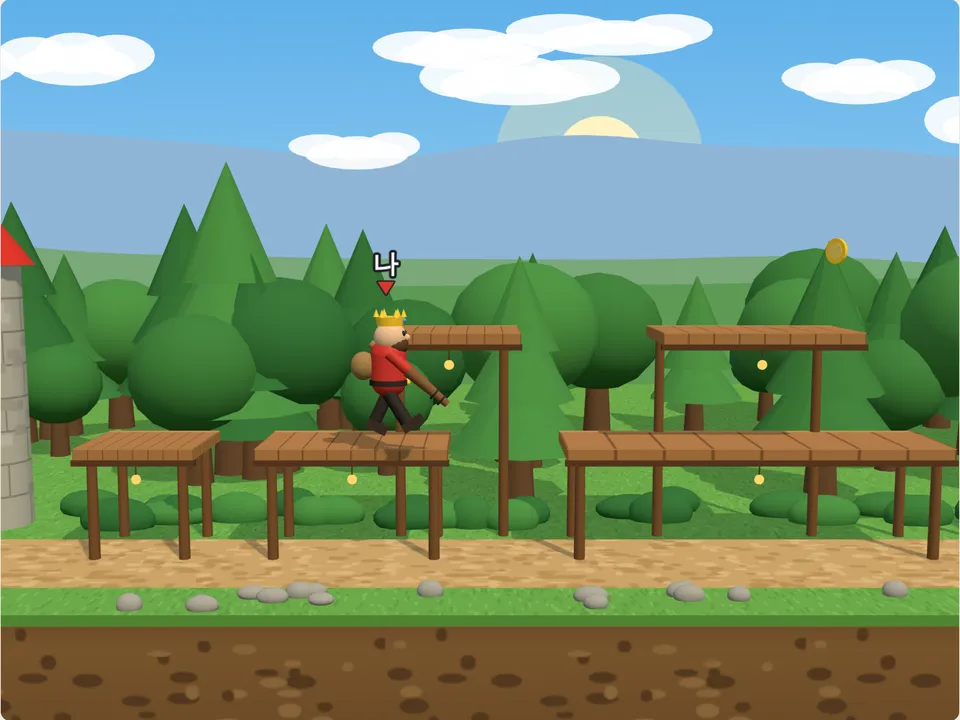
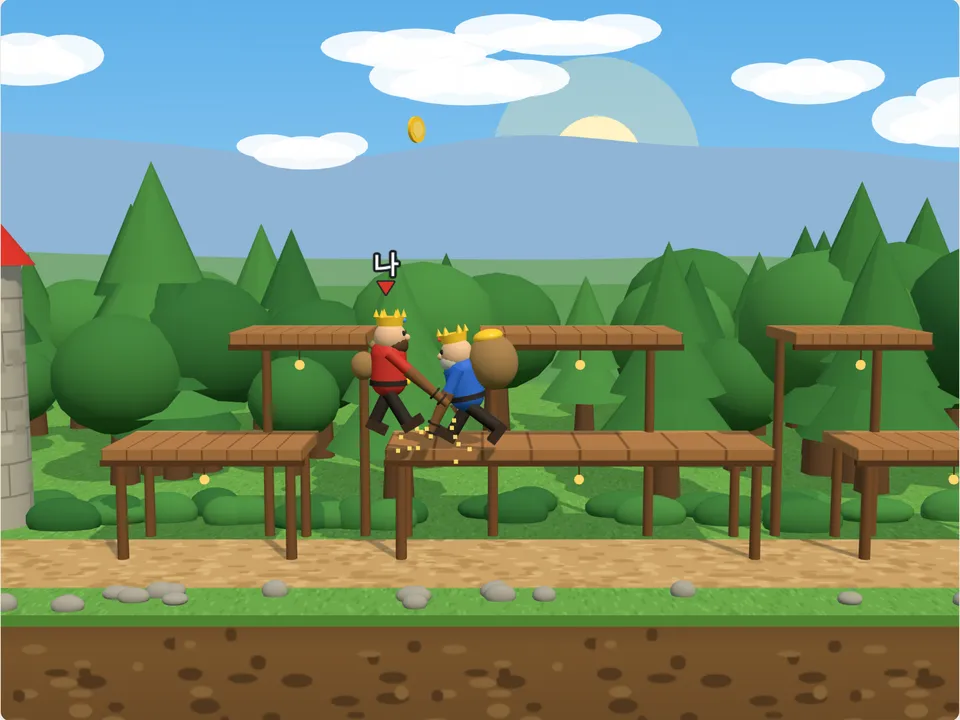
Gold raid: a 20 m valley
Claude-Session: https://claude.ai/code/session_01Uedx1uYtd54DPXXtQh77nN

diff --git a/src/core/updates.ts b/src/core/updates.ts
@@ -12,7 +12,7 @@ const at = (text: string, full = false) => ({ text, full });
 export const UPDATES: UpdateDay[] = [
   {
     date: "2026-11-25",
-    items: [at("배드민턴 와이파이 여럿이(둘이)"), at("배드민턴: 손가락을 떼지 않고 누른 채로 빠르게 밀기만 해도 칩니다"), at("낚시: 찌를 물면 격렬하게 요동치고, 릴을 계속 빠르게 돌려야(화면에 원 그리기·스페이스 연타) 끌어올립니다"), at("낚시: 바다 낚시(전갱이부터 참치까지, 더 길고 거친 싸움), 호수는 낮에서 해질녘을 지나 밤으로, 낚싯대에 돌아가는 릴"), at("숫자 코드 와이파이: 처음에 모두 함께 패를 정리하고 배열 완료(조커를 받은 사람이 티 나지 않게)"), at("낚시: 호수에 개구리·가재, 바다에 장어·청새치·상어·고래"), at("낚시: 시간 제한과 난이도 없음, 바다 낚시는 흔들리는 낚싯배 위에서"), at("낚시: 바다도 낮에서 밤으로 하늘이 바뀌고, 물고기가 덜 자주 차고 나갑니다"), at("새 게임: 주차 요원 — 손님 차를 직접 몰아 빈칸에 대고, 돌아온 손님에게 출구까지 내어 주기(3분 근무, 주차장 3종)"), at("새 게임: 금화 쟁탈전 — 두 산적 왕이 떨어지는 금화와 보물을 모아 자기 성을 먼저 채우기(수레 털기, 몽둥이, 컴퓨터 대전 · 로컬 2인)"), at("슬롯 카: 컴퓨터도 가끔 과속으로 코스 이탈"), at("낚시: 흔한 물고기는 금방 딸려 오고 큰 물고기는 오래 걸림, 큰 물고기도 요동은 몇 번뿐"), at("배드민턴: 높이 뜬 셔틀콕이 더 빠르게 올라갔다 떨어집니다"), at("탁구: 내가 친 공은 아웃되지 않고, 친 뒤 라켓을 옆으로 움직여 공을 휘게 합니다(치는 순간 저절로 걸리던 스핀 없음)"), at("배드민턴: 아웃 없음(옆줄·뒷줄 안쪽으로, 서브도 맞는 코트로)"), at("탁구: 컴퓨터가 더 빨라져 옆으로 치거나 휜 공도 받아 냅니다"), at("새 게임: 훌라 — 같은 숫자·같은 무늬 묶음을 등록하고 붙여 먼저 손을 비우기(땡큐, 7 단독 등록, 한 번에 털면 훌라 두 배)"), at("새 게임: 룰렛 — 칩을 판에 걸고 휠을 돌리면 공이 굴러 떨어진 칸으로 승부", true), at("새 게임: 슬롯머신 — 레버를 끌어 당기면 릴 3개가 돌다 멈춤, 1·3·5라인, 환급률 95.4%", true), at("금화 쟁탈전이 훨씬 느긋해지고 골짜기가 길어졌어요. 화면이 내 산적을 따라가고, 위쪽 띠 지도에서 성과 상대 위치를 볼 수 있어요. 둘이서 멀리 떨어지면 화면이 반으로 나뉘어요"), at("주차 요원: 손님이 칸 번호 하나를 말풍선으로 알려 주고, 요원을 레버로 직접 움직여 탑승·하차 버튼으로 타고 내립니다"), at("금화 쟁탈전: 휴대폰은 레버로 달리고 위로 올려 점프, 골짜기가 35m로 짧아지고, 자루가 무거울수록 느려지며, 일어나면 바로 다시 맞을 수 있어요"), at("주차 요원: 두 번째 주차장은 밤의 햄버거 가게 주차장, 세 번째는 진짜 지하 주차장 배경으로 바뀌었어요(어두우면 차가 전조등을 켜요)"), at("금화 쟁탈전: 골짜기가 25m로 짧아지고, 하늘에서 보물 상자가 떨어지지 않으며, 금화가 덜 자주 떨어져요")],
+    items: [at("배드민턴 와이파이 여럿이(둘이)"), at("배드민턴: 손가락을 떼지 않고 누른 채로 빠르게 밀기만 해도 칩니다"), at("낚시: 찌를 물면 격렬하게 요동치고, 릴을 계속 빠르게 돌려야(화면에 원 그리기·스페이스 연타) 끌어올립니다"), at("낚시: 바다 낚시(전갱이부터 참치까지, 더 길고 거친 싸움), 호수는 낮에서 해질녘을 지나 밤으로, 낚싯대에 돌아가는 릴"), at("숫자 코드 와이파이: 처음에 모두 함께 패를 정리하고 배열 완료(조커를 받은 사람이 티 나지 않게)"), at("낚시: 호수에 개구리·가재, 바다에 장어·청새치·상어·고래"), at("낚시: 시간 제한과 난이도 없음, 바다 낚시는 흔들리는 낚싯배 위에서"), at("낚시: 바다도 낮에서 밤으로 하늘이 바뀌고, 물고기가 덜 자주 차고 나갑니다"), at("새 게임: 주차 요원 — 손님 차를 직접 몰아 빈칸에 대고, 돌아온 손님에게 출구까지 내어 주기(3분 근무, 주차장 3종)"), at("새 게임: 금화 쟁탈전 — 두 산적 왕이 떨어지는 금화와 보물을 모아 자기 성을 먼저 채우기(수레 털기, 몽둥이, 컴퓨터 대전 · 로컬 2인)"), at("슬롯 카: 컴퓨터도 가끔 과속으로 코스 이탈"), at("낚시: 흔한 물고기는 금방 딸려 오고 큰 물고기는 오래 걸림, 큰 물고기도 요동은 몇 번뿐"), at("배드민턴: 높이 뜬 셔틀콕이 더 빠르게 올라갔다 떨어집니다"), at("탁구: 내가 친 공은 아웃되지 않고, 친 뒤 라켓을 옆으로 움직여 공을 휘게 합니다(치는 순간 저절로 걸리던 스핀 없음)"), at("배드민턴: 아웃 없음(옆줄·뒷줄 안쪽으로, 서브도 맞는 코트로)"), at("탁구: 컴퓨터가 더 빨라져 옆으로 치거나 휜 공도 받아 냅니다"), at("새 게임: 훌라 — 같은 숫자·같은 무늬 묶음을 등록하고 붙여 먼저 손을 비우기(땡큐, 7 단독 등록, 한 번에 털면 훌라 두 배)"), at("새 게임: 룰렛 — 칩을 판에 걸고 휠을 돌리면 공이 굴러 떨어진 칸으로 승부", true), at("새 게임: 슬롯머신 — 레버를 끌어 당기면 릴 3개가 돌다 멈춤, 1·3·5라인, 환급률 95.4%", true), at("금화 쟁탈전이 훨씬 느긋해지고 골짜기가 길어졌어요. 화면이 내 산적을 따라가고, 위쪽 띠 지도에서 성과 상대 위치를 볼 수 있어요. 둘이서 멀리 떨어지면 화면이 반으로 나뉘어요"), at("주차 요원: 손님이 칸 번호 하나를 말풍선으로 알려 주고, 요원을 레버로 직접 움직여 탑승·하차 버튼으로 타고 내립니다"), at("금화 쟁탈전: 휴대폰은 레버로 달리고 위로 올려 점프, 골짜기가 35m로 짧아지고, 자루가 무거울수록 느려지며, 일어나면 바로 다시 맞을 수 있어요"), at("주차 요원: 두 번째 주차장은 밤의 햄버거 가게 주차장, 세 번째는 진짜 지하 주차장 배경으로 바뀌었어요(어두우면 차가 전조등을 켜요)"), at("금화 쟁탈전: 골짜기가 25m로 짧아지고, 하늘에서 보물 상자가 떨어지지 않으며, 금화가 덜 자주 떨어져요"), at("금화 쟁탈전: 골짜기가 20m로 더 짧아졌어요")],
   },
   {
     date: "2026-11-24",

diff --git a/tests/e2e/gold-raid.spec.ts b/tests/e2e/gold-raid.spec.ts
@@ -58,11 +58,11 @@ test("gold raid: against the computer the keys run, jump and strike my bandit, a
   await expect(page.locator(".gr-gold-0")).toHaveText("0/100");
   await expect(canvas(page)).toHaveAttribute("data-two", "false");
   const [start] = await men(page);
-  expect(start[0]).toBeLessThan(-10);
+  expect(start[0]).toBeLessThan(-7);
   // The valley is long: the eye is on my bandit at my end of it, and the strip under the board shows all of it.
   const eye = async () => (await canvas(page).getAttribute("data-eye"))!.split(",").map(Number);
   await expect(canvas(page)).toHaveAttribute("data-split", "false");
-  // (A phone held sideways sees near all of the 25 m valley at once, so its eye hardly moves; a desktop window less.)
+  // (A phone held sideways sees near all of the 20 m valley at once, so its eye hardly moves; a desktop window less.)
   expect((await eye())[0]).toBeLessThan(phone ? 0.01 : -3);
   await expect(page.locator(".gr-map .gr-map-man")).toHaveCount(2);
   await expect(page.locator(".gr-map .gr-map-castle")).toHaveCount(2);
@@ -90,13 +90,18 @@ test("gold raid: against the computer the keys run, jump and strike my bandit, a
   await press(page, "KeyW");
   await expect.poll(async () => (await counts(page, "jumps"))[0]).toBe(jumps + 1);
   const swings = (await counts(page, "swings"))[0];
-  await press(page, "KeyS");
-  await expect.poll(async () => (await counts(page, "swings"))[0]).toBe(swings + 1);
+  // (In the short valley the computer may come and club mine first: a press while down is lost, so it is asked again.)
+  await expect(async () => {
+    await press(page, "KeyS");
+    await settle(page);
+    expect((await counts(page, "swings"))[0]).toBeGreaterThan(swings);
+  }).toPass({ timeout: 30_000 });
+  const swung = (await counts(page, "swings"))[0];
   // F strikes too, once the club is ready again (a press while it is not is lost: the page here is slow, so it is asked again).
   await expect(async () => {
     await press(page, "KeyF");
     await settle(page);
-    expect((await counts(page, "swings"))[0]).toBeGreaterThan(swings + 1);
+    expect((await counts(page, "swings"))[0]).toBeGreaterThan(swung);
   }).toPass({ timeout: 30_000 });
   // The computer plays its own bandit: it leaves its gate for the loot.
   await expect.poll(async () => (await men(page))[1][0], { timeout: 30_000 }).toBeLessThan(21);
@@ -147,7 +152,7 @@ test("gold raid: gold picked up and brought to my gate raises my treasury on the
           const bomb = loot.some((i) => i.kind === "bomb" && Math.abs(i.x - x) < 2.6 && i.y < 5),
             near = loot.filter((i) => i.kind !== "bomb" && i.rest && i.y < 0.5).sort((a, b) => Math.abs(a.x - x) - Math.abs(b.x - x))[0],
             // Home with anything in the sack; away from a bomb; else to the gold; else wait near my side's middle.
-            to = carry > 0 ? -12.5 : bomb ? x - 3 : near ? near.x : -10,
+            to = carry > 0 ? -10 : bomb ? x - 3 : near ? near.x : -10,
             way = Math.abs(to - x) < 0.15 ? 0 : Math.sign(to - x);
           key("KeyD", way > 0);
           key("KeyA", way < 0);
@@ -263,22 +268,14 @@ test("gold raid: two at one screen each move their own bandit with their own key
   await expect(page.locator(".gr-hud .gr-s0 b")).toHaveText("1P");
   await expect(page.locator(".gr-hud .gr-s1 b")).toHaveText("2P");
   const [a, b] = await men(page);
-  expect(a[0]).toBeLessThan(-10);
-  expect(b[0]).toBeGreaterThan(10);
-  if (info.project.name === "mobile") {
-    // A phone held sideways sees most of the valley: one view drawn back holds both at their gates.
-    await expect(canvas(page)).toHaveAttribute("data-split", "false");
-    expect(Number(await canvas(page).getAttribute("data-zoom"))).toBeGreaterThanOrEqual(1);
-    await expect(page.locator(".gr-map .gr-map-eye:not([hidden])")).toHaveCount(1);
-  } else {
-    // So far apart at their gates, the screen is split: each half follows one, and the strip shows two windows.
-    await expect(canvas(page)).toHaveAttribute("data-split", "true");
-    await expect(page.locator(".gr-seam.on")).toBeVisible();
-    await expect(page.locator(".gr-map .gr-map-eye:not([hidden])")).toHaveCount(2);
-    const halves = (await canvas(page).getAttribute("data-eye"))!.split(",").map(Number);
-    expect(halves[0]).toBeLessThan(-8);
-    expect(halves[1]).toBeGreaterThan(8);
-  }
+  expect(a[0]).toBeLessThan(-7);
+  expect(b[0]).toBeGreaterThan(7);
+  // The valley is short: a phone held sideways holds both at their gates in one view, drawn back; a narrower desktop
+  // window may split the screen, and then the strip shows a window for each half.
+  if (info.project.name === "mobile") await expect(canvas(page)).toHaveAttribute("data-split", "false");
+  const split = (await canvas(page).getAttribute("data-split")) === "true";
+  await expect(page.locator(".gr-map .gr-map-eye:not([hidden])")).toHaveCount(split ? 2 : 1);
+  if (!split) expect(Number(await canvas(page).getAttribute("data-zoom"))).toBeGreaterThanOrEqual(1);
   // The first person's D moves red alone; the second's ← moves blue alone.
   await run(page, "KeyD", 1);
   const [a1, b1] = await men(page);

diff --git a/tests/gold-raid.test.ts b/tests/gold-raid.test.ts
@@ -398,15 +398,15 @@ describe("gold raid: the match", () => {
 describe("gold raid: the slower pace and the long valley", () => {
   /** As the game was first made: gate at 9.3 m, a run of 5.6 m/s, a jump of 10.2 m/s under 26 m/s². */
   const BEFORE = { gate: 9.3, run: 5.6, jump: 10.2, g: 26 };
-  test("the valley is 25 m (a third longer than the first) and a bandit runs at half the pace, jumping as high but more slowly", () => {
+  test("the valley is 20 m (a little longer than the first) and a bandit runs at half the pace, jumping as high but more slowly", () => {
     const longer = S.GATE / BEFORE.gate;
-    expect(2 * S.GATE).toBe(25);
-    expect(longer).toBeGreaterThanOrEqual(1.25);
-    expect(longer).toBeLessThanOrEqual(1.45);
+    expect(2 * S.GATE).toBe(20);
+    expect(longer).toBeGreaterThanOrEqual(1.05);
+    expect(longer).toBeLessThanOrEqual(1.15);
     expect(S.X_MOST).toBeGreaterThan(S.GATE);
     expect(S.RUN).toBeLessThanOrEqual(BEFORE.run / 2);
-    // From gate to gate takes over two and a half times as long as it did.
-    expect((2 * S.GATE) / S.RUN).toBeGreaterThan((2.5 * (2 * BEFORE.gate)) / BEFORE.run);
+    // From gate to gate takes over twice as long as it did.
+    expect((2 * S.GATE) / S.RUN).toBeGreaterThan((2 * (2 * BEFORE.gate)) / BEFORE.run);
     // A jump rises as high (the ledges are reached as before) and hangs in the air longer.
     expect((S.JUMP * S.JUMP) / (2 * S.G)).toBeCloseTo((BEFORE.jump * BEFORE.jump) / (2 * BEFORE.g), 1);
     expect((2 * S.JUMP) / S.G).toBeGreaterThan((1.4 * 2 * BEFORE.jump) / BEFORE.g);
@@ -420,19 +420,19 @@ describe("gold raid: the slower pace and the long valley", () => {
   });
   test("the ledges are alike on both sides, spread along the valley, and every one is reached by a jump from the road or a ledge under it", () => {
     const jump = (S.JUMP * S.JUMP) / (2 * S.G);
-    expect(S.PLATFORMS.length).toBeGreaterThanOrEqual(8);
+    expect(S.PLATFORMS.length).toBeGreaterThanOrEqual(6);
     for (const p of S.PLATFORMS) {
       expect(S.PLATFORMS.some((q) => q.y === p.y && Math.abs(q.x0 + p.x1) < 1e-9 && Math.abs(q.x1 + p.x0) < 1e-9)).toBe(true);
       const under = S.PLATFORMS.filter((q) => q.y < p.y && q.x0 < p.x1 && q.x1 > p.x0).map((q) => q.y);
       expect(p.y - Math.max(0, ...under)).toBeLessThan(jump - 0.2);
       expect(Math.abs(p.x1)).toBeLessThan(S.GATE - 3);
     }
-    expect(Math.max(...S.PLATFORMS.map((p) => p.x1))).toBeGreaterThan(S.GATE * 0.75);
+    expect(Math.max(...S.PLATFORMS.map((p) => p.x1))).toBeGreaterThan(S.GATE * 0.6);
   });
   test("the eye follows a bandit along the valley, a little ahead the way it runs, and never past the castles", () => {
     const frame = L.goldRaidFrame(16 / 9, false);
     // Not the whole valley with its castles is in view at once.
-    expect(frame.wide).toBeLessThan(2 * L.END * 0.6);
+    expect(frame.wide).toBeLessThan(2 * L.END * 0.7);
     // Standing it is near the middle of the view; running it is looked ahead of.
     expect(Math.abs(L.aimX(3, 0, 1, frame.wide) - 3)).toBeLessThan(frame.wide * 0.1);
     expect(L.aimX(3, S.RUN, 1, frame.wide)).toBeGreaterThan(L.aimX(3, 0, 1, frame.wide));
@@ -488,7 +488,6 @@ describe("gold raid: the slower pace and the long valley", () => {
         }
       // Once apart and once together again, and not to and fro (or never, where one view always holds both).
       expect(splits).toBe(ever ? 2 : 0);
-      if (aspect < 2) expect(start).toBe(true);
       // Between where it splits and where it is one again, it stays as it is.
       const gap = wide * L.ZOOM_MOST * 0.93 - 2 * L.ROOM;
       expect(L.pairView(-gap / 2, gap / 2, wide, true).split).toBe(true);

diff --git a/src/games/goldraid/sim.ts b/src/games/goldraid/sim.ts
@@ -16,7 +16,7 @@
  * before the gate, to be carried home like any), and the castle answers by dropping a fire pot there.
  */
 /**
- * The valley is long (gate to gate 25 m; it was 50 m, then 35 m, and the user asked
+ * The valley (gate to gate 20 m; it was 50 m, then 35 m, then 25 m, and the user asked
  * for it shorter each time): the castles are far apart and the view follows a bandit along it. And it is played at an easy pace: a bandit runs at 2.8 m/s and a jump hangs in
  * the air for over a second (the game was asked to be much slower than at first, when it ran at 5.6 and a jump
  * lasted 0.8 s; every other speed and time was scaled with it, the heights kept).
@@ -24,8 +24,8 @@
  */
 export const DT = 1 / 120;
 /** The valley: how far a bandit may go either way, and where loot bounces back. */
-export const X_MOST = 13.5,
-  LOOT_MOST = 13.1;
+export const X_MOST = 11,
+  LOOT_MOST = 10.6;
 /** A bandit: its half width and height, its run and jump, gravity (a jump rises JUMP² / 2G = 2 m). */
 export const BODY = { half: 0.32, tall: 1.15 },
   RUN = 2.8,
@@ -46,14 +46,13 @@ export const CAP = 20,
 /** How fast a bandit carrying `carry` runs at most. */
 export const runOf = (carry: number) => RUN * (1 - LOAD_SLOW * Math.min(1, Math.max(0, carry) / CAP));
 /** The gates: where each castle's stands (side 0 at −`GATE`), and how near counts as at it. */
-export const GATE = 12.5,
+export const GATE = 10,
   GATE_R = 1.05;
 export const gateOf = (side: number) => (side === 0 ? -GATE : GATE);
 /** The ledges, alike on both sides: stood on from above, passed through from below; a high one stands over a low one. */
 const RIGHT = [
-  { x0: 4.4, x1: 6.9, y: 1.6 },
-  { x0: 3.4, x1: 5.2, y: 3.2 },
-  { x0: 7.9, x1: 9.4, y: 1.6 },
+  { x0: 3.9, x1: 6.5, y: 1.6 },
+  { x0: 3.0, x1: 4.7, y: 3.2 },
 ];
 export const PLATFORMS = [
   { x0: -2.6, x1: 2.6, y: 1.6 },
@@ -96,7 +95,7 @@ export const KINDS: Record<LootKind, { value: number; share: number }> = {
 };
 /** The seconds between two pieces falling (drawn between these), and where across they fall. */
 export const DROP_EVERY = [0.85, 1.75],
-  DROP_REACH = 11.4,
+  DROP_REACH = 9.1,
   DROP_BIAS = 1.4,
   DROP_FROM = 9.5;
 /** The merchant's cart: its gold, its pace, what a blow sheds, how many blows break it, and the seconds between two carts. */

diff --git a/AGENTS.md b/AGENTS.md
@@ -371,5 +371,5 @@
 - Slot car track and the computer's flights (the user asked: "트랙 깨진 부분들 수정하고, 컴퓨터들도 빠르게 달리다가 코스 이탈하는 경우도 나오게"): a banked curve now turns about its inner edge (`laneAt` raises the surface by sin(bank) × (`WIDEST_HALF` − side × d)), so no edge sinks into the table (the grand circuit's banked turns showed torn inner edges); the pillars' beams run from foot to foot, tilted with the track (level, their ends stuck up through banked curves as white bars); the sun's shadow has a small `bias`. `LEVELS` gained `push` (per curve per lap: easy 0.07, normal 0.06, hard 0.045) and `over` (1.3–1.55 × the safe speed): on such a curve the driver aims over the grip and keeps its foot down when the tail steps out, so it often flies off: about 0.09 / 0.05 / 0.03 flights per car-lap (before: 0.04 / 0 / 0). Tests: `tests/slotcar.test.ts` (every level flies off now and then, not often, easy most).
 - The finale stays through taps elsewhere (the user asked: "맨 마지막 최종 승리, 패배 메시지 후 다른 곳을 눌러도 그 메시지가 꺼지지 않게"): `finale` removes itself only when `#move-count`'s text really changes (a new game, an undo); the screens rewrite the same count on every redraw, and a tap after the end did that, taking the final word away. Test: `tests/e2e/nim.spec.ts` (taps on the table after the end leave it).
 - Valet parking (`valet/`, 주차 요원, id `valet-parking`, 아케이드게임, NO. 112, both editions; the user asked for a game of the Park a Lot kind, made as our own: name, art and lots are ours) runs like the other real-time games (`live`, `pausable`, `noUndo`, `noPanel`, stages 1/2/3 = 마트·사선·지하 주차장, `newGameLabel` 주차장 선택, end word 근무 종료 in `chrome.ts`). `sim.ts` (free of Three.js and DOM, slices of `DT` 1/120 s): `lotOf(stage)` (bays with `angle`/`w`/`l`, pillars, blocks with the booth first, entrance, exit zone, arrival `gap`, `patience`, `returnPatience`, `stay`), a kinematic bicycle car (`WHEELBASE`, `MAX_STEER`, heading from +x toward +z so that steering right turns clockwise on the screen), collisions as boxes against kerbs, pillars, blocks and cars (a blocked slice keeps the pose and throws the car back; a knock over `BUMP_FROM` is a fined bump), `bayAt`, and `step(world, input)` returning happenings (`arrive`, `take`, `bump`, `parked`, `ask`, `returned`, `angry`, `end`). Money is in hundreds of won: `PAY` 20, `TIP` up to 15 by the patience left, `TIDY` up to 10, `BUMP_FINE` 5, `ANGRY_FINE` 15, `LATE_PAY` 10; a shift is `SHIFT` 180 s. `rules.ts` turns happenings into moves (`parkedMove`, `returnedMove`, `BUMP`, `ANGRY`, `END`). `view.ts` owns the world, steps it by real time (at most 0.1 s a frame), draws everything in code, and shifts the lot left on a wide low screen (`offset`) so that the pedals lie beside it; the HUD and the buttons are DOM over the canvas (`.vp-*` in `style.css`, hidden under `data-capture`). `sound.ts` gained `carEngine()` and `horn()`. No best score is stored and there are no speed settings. For tests the canvas carries `data-phase`, `data-car`, `data-job`, `data-from`, `data-gear`, `data-time`, `data-money`, `data-counts`, `data-free`, `data-exit`. `tests/valet-driver.ts` is a careful driver with no imports (`driver`) and its in-page loop (`atTheWheel`, by key events alone): the unit tests, the browser spec and `scripts/capture-thumbs.mjs` all drive with it, so keep it self-contained. It cannot drive the third lot (pillars). Tests: `tests/valet-parking.test.ts`, `tests/e2e/valet-parking.spec.ts` (the whole shift is `@alone`, desktop only, about five minutes under software drawing). Each customer names one bay (`Car.want`, drawn when the valet first gets in, among free bays no other waiting customer named and no car stands in; -1 if none, then any free bay will do). Only that bay counts: `alight()` parks and pays only when the car stands still (`STILL`) rightly in it. In another bay, or askew in its own, it returns `wrong {bay, at}` and keeps the valet at the wheel; elsewhere it returns `out` and leaves the car standing (still `waiting`). The valet walks: `Input.walkX/walkZ` (`WALK` 6 m/s, body radius `BODY` 0.3, pushed out of kerbs, pillars, blocks and cars by `shove`). `board()` takes the nearest `waiting`/`requested` car within `REACH` 1.2 (`reachable`), emitting `take {car, bay}`. A `requested` car is still handed over in the exit zone, and the valet steps out there. A customer leaves on running out of patience only if its car was never `taken`. There is no auto-run, `take`/`nextJob` or `SETTLE` any more. The first lot is arrivals every 19–25 s, patience 60 s: keep it gentle. View: lever `.vp-stick` at the lower left (walks; steers at the wheel), `.vp-side` at the lower right (`.vp-act` 탑승/하차 = E/Enter, with the pedals and `.vp-gear` only under `.vp-driving`). The customer's bubble shows over the car for `SAYING` s, and the named bay glows with a number badge. Extra canvas data: `data-valet`, `data-near`, `data-takes`, `data-bay` (the named bay's number), `data-want` (index and place for the driver), `data-said`. The driver's goal `"walk"` takes the valet to a car (out of a bay row by `mem.out`, to the bay's mouth, then in); `atTheWheel` presses E to get in and out. The 2× thumbnail capture walks the valet and may take about ten minutes on a loaded machine; raise the wait in `scripts/capture-thumbs.mjs` if it times out. Each lot has its own setting, laid by `scenery.ts`: `dress(stage, lot, group)` builds everything round the bays (lot 1 the mart by day, as before; lot 2 the burger restaurant "달빛버거", a made-up brand, at night; lot 3 a car park under the ground, drawn cut open) and returns a `Look` (sky and shadow light, floor, line and kerb materials, pillars, a `room` reflected on a real graphics card, and a per-frame `tick`). The view keeps the bays, the booth, the barriers and the marks, and the canvas tells tests `data-scene`. In the dark (`Look.dark`) a running car has its headlights on (`beam`, `flares`). Keep the marks (bubble, badge, bay glow, the valet's ring) unlit so they read on dark lots, and keep scenery off the bays and away from the screen's lower corners, where the controls are.
-- 금화 쟁탈전 (`goldraid/`, id `gold-raid`, 아케이드게임, NO. 113, both editions; the user asked for a game of the Bandit Kings kind, made as our own) is a real-time arcade game for two (computer or two at one screen; no Wi-Fi yet). `sim.ts` is the whole valley, free of Three.js and the DOM: fixed slices of 1/120 s, deterministic for a seed, stepped with one plain `Input {x, jump, strike}` per side (`jump` and `strike` are presses in that slice), which is what a Wi-Fi version would send. `think(world, side, level)` is the computer (it defends its gate only when the rival's club is up there or the gate was just struck). Loot falls in mirrored pairs so neither side is favoured. `rules.ts` only records what the view reports as moves: a deposit (`depositMove`), a gate robbed (`raidedMove`) and the clock's end (`TIME`); the variant is the castle's size ("60", "100", "150") or "time" (three minutes, the fuller castle wins, equal is a draw). `view.ts` extends `TableView` but sets its own camera in `resize()` from `goldRaidFrame` (`layout.ts`), which lifts the road clear of a phone's buttons. The figures are drawn `DRAWN` (1.22) times larger than the bodies the sim reckons with, and the ledges stand behind the line the bandits run on so nobody is hidden. The canvas tells tests `data-men`, `data-carry`, `data-gold`, `data-jumps`, `data-swings`, `data-loot`, `data-cart`, `data-time`. Key handlers are on `document` with `e.code`; a direction key tapped and released inside one frame is lost (jump and strike presses are counted and never lost), so browser tests hold a key until the bandit has moved. The thumbnail is cut from the middle of the captured picture, since the valley is wide. Tests: `tests/gold-raid.test.ts`, `tests/e2e/gold-raid.spec.ts`. Gold raid is slow and long on purpose: the user asked for a much slower game and a valley where both castles need not be in view. The pace was halved by scaling every speed and time from the earlier numbers (RUN 5.6 → 2.8, jump airtime 0.78 → 1.2 s at the same 2 m height), and the valley was 50 m, then 35 m, and is now 25 m gate to gate (GATE 12.5, 8 mirrored ledges); the user asked for it shorter each time. No chest falls from the sky (its share is 0; the user asked), and loot falls every 0.85–1.75 s (less often, as asked). A phone held sideways sees near all of it, so its eye hardly moves and two at one screen never split there; browser tests accept a bandit standing on a low ledge near its gate. Never add a speed setting: change the sim's own numbers. Framing lives in `layout.ts` as pure functions the unit tests use. `goldRaidFrame` gives a view's shape. `aimX` and `follow` move the eye after my bandit, clamped to `END`. `pairView` decides, for two at one screen, between one shared view (zoom up to `ZOOM_MOST`) and a left/right split with hysteresis (`MERGE`). The view draws the split through `TableView.drawPicture()`, which a view may override. The strip under the board (`.gr-map`) shows the whole valley. The computer keeps its chosen loot (`STEADY`), weighs the long way home by its level's `thrift`, and waits out lit bombs on its way. Keep the unit test that the computer finishes a match at every level and that hard beats easy. A bandit's top speed is `runOf(carry)` (`LOAD_SLOW` 0.4: a full sack runs at 60%), and the computer reckons with it. A bandit is protected only while stunned (no club hit, no bomb). There is no `safe` time after getting up: the user asked for that. A blow on a bandit sets the striker's `cool` to `HIT_COOL` (stun + 0.45 s), so it cannot stun-lock; keep the unit test that the next blow lands once the victim stands. Touch screens drive a bandit by a lever (`.gr-stick`; `hands.ts`: `Hand.lean`, `leverRun` with dead zone `LEVER_DEAD`, one jump per lean above `LEVER_JUMP`, re-armed under `LEVER_REARM`). Held keys outrank the lever. On a touch screen the road sits at 0.68 of the canvas so the lever stays below the bandits.
+- 금화 쟁탈전 (`goldraid/`, id `gold-raid`, 아케이드게임, NO. 113, both editions; the user asked for a game of the Bandit Kings kind, made as our own) is a real-time arcade game for two (computer or two at one screen; no Wi-Fi yet). `sim.ts` is the whole valley, free of Three.js and the DOM: fixed slices of 1/120 s, deterministic for a seed, stepped with one plain `Input {x, jump, strike}` per side (`jump` and `strike` are presses in that slice), which is what a Wi-Fi version would send. `think(world, side, level)` is the computer (it defends its gate only when the rival's club is up there or the gate was just struck). Loot falls in mirrored pairs so neither side is favoured. `rules.ts` only records what the view reports as moves: a deposit (`depositMove`), a gate robbed (`raidedMove`) and the clock's end (`TIME`); the variant is the castle's size ("60", "100", "150") or "time" (three minutes, the fuller castle wins, equal is a draw). `view.ts` extends `TableView` but sets its own camera in `resize()` from `goldRaidFrame` (`layout.ts`), which lifts the road clear of a phone's buttons. The figures are drawn `DRAWN` (1.22) times larger than the bodies the sim reckons with, and the ledges stand behind the line the bandits run on so nobody is hidden. The canvas tells tests `data-men`, `data-carry`, `data-gold`, `data-jumps`, `data-swings`, `data-loot`, `data-cart`, `data-time`. Key handlers are on `document` with `e.code`; a direction key tapped and released inside one frame is lost (jump and strike presses are counted and never lost), so browser tests hold a key until the bandit has moved. The thumbnail is cut from the middle of the captured picture, since the valley is wide. Tests: `tests/gold-raid.test.ts`, `tests/e2e/gold-raid.spec.ts`. Gold raid is slow and long on purpose: the user asked for a much slower game and a valley where both castles need not be in view. The pace was halved by scaling every speed and time from the earlier numbers (RUN 5.6 → 2.8, jump airtime 0.78 → 1.2 s at the same 2 m height), and the valley was 50 m, then 35 m, then 25 m, and is now 20 m gate to gate (GATE 10, 6 mirrored ledges); the user asked for it shorter each time. No chest falls from the sky (its share is 0; the user asked), and loot falls every 0.85–1.75 s (less often, as asked). A phone held sideways sees all of it, so its eye hardly moves and two at one screen never split there (a desktop window may still split when the two stand at the far ends); browser tests accept a bandit standing on a low ledge near its gate. Never add a speed setting: change the sim's own numbers. Framing lives in `layout.ts` as pure functions the unit tests use. `goldRaidFrame` gives a view's shape. `aimX` and `follow` move the eye after my bandit, clamped to `END`. `pairView` decides, for two at one screen, between one shared view (zoom up to `ZOOM_MOST`) and a left/right split with hysteresis (`MERGE`). The view draws the split through `TableView.drawPicture()`, which a view may override. The strip under the board (`.gr-map`) shows the whole valley. The computer keeps its chosen loot (`STEADY`), weighs the long way home by its level's `thrift`, and waits out lit bombs on its way. Keep the unit test that the computer finishes a match at every level and that hard beats easy. A bandit's top speed is `runOf(carry)` (`LOAD_SLOW` 0.4: a full sack runs at 60%), and the computer reckons with it. A bandit is protected only while stunned (no club hit, no bomb). There is no `safe` time after getting up: the user asked for that. A blow on a bandit sets the striker's `cool` to `HIT_COOL` (stun + 0.45 s), so it cannot stun-lock; keep the unit test that the next blow lands once the victim stands. Touch screens drive a bandit by a lever (`.gr-stick`; `hands.ts`: `Hand.lean`, `leverRun` with dead zone `LEVER_DEAD`, one jump per lean above `LEVER_JUMP`, re-armed under `LEVER_REARM`). Held keys outrank the lever. On a touch screen the road sits at 0.68 of the canvas so the lever stays below the bandits.
 - With these two, `tests/e2e/arcade.spec.ts` counts 18 arcade games; a new arcade game must be added to its list and count.

diff --git a/README.md b/README.md
@@ -1138,6 +1138,6 @@ npm run build:html
 - 몽둥이: 상대를 치면 자루의 40%를 떨어뜨립니다('강탈!'). 지나가는 대상의 소 수레('대상 행렬!')는 칠 때마다 금화 3, 다섯 번째에 부서져 전부 쏟아집니다. 상대 성문을 치면 금고에서 2를 꺼내지만('성문 습격!') 불단지가 떨어집니다.
 - 조작: 1P A D 달리기 · W 점프 · S 또는 F 치기, 2P ← → · ↑ · ↓ 또는 /. 컴퓨터 대전에서는 두 묶음 모두 내 산적입니다. 터치 화면은 왼쪽 아래 **레버**: 옆으로 밀면 달리고(많이 밀수록 빨리, 가운데 조금은 멈춤), 위로 올리면 점프합니다(올린 채로는 한 번만, 다시 뛰려면 내렸다 올림). 오른쪽 아래 치기 버튼. 둘이서는 화면 양쪽 끝에 각자의 레버와 그 안쪽에 치기 버튼이 있고, 두 레버를 함께 움직일 수 있습니다.
 - 컴퓨터 레벨: 쉬움(느리고 몽둥이를 쓰지 않음), 보통(발판에 오르고 폭탄을 피하고 가까우면 침), 어려움(수레를 쫓고 성문도 습격). 와이파이 대전은 아직 없습니다.
-- 골짜기는 성문 사이 25m(나무 발판 8개)이고 게임 속도는 처음의 절반입니다(빈손일 때 초속 2.8m, 점프는 1.2초 동안 떠 있음). 데스크톱에서는 골짜기의 대부분이 보이고 화면이 내 산적을 따라가며, 휴대폰 가로 화면에서는 거의 다 보입니다. 점수판 아래 띠 지도에 두 성·두 산적·수레와 지금 보이는 곳이 나옵니다. 둘이서 할 때는 가까우면 한 화면(최대 1.45배까지 넓게), 데스크톱에서 더 멀어지면 화면이 좌우로 나뉩니다(휴대폰 가로 화면은 늘 한 화면). 하늘에서 보물 상자는 떨어지지 않고, 전리품은 0.85~1.75초마다 떨어집니다(전보다 덜 자주). 컴퓨터끼리 겨루면 금화 60 판이 약 1분 25초, 100 판이 약 2분 20초, 150 판이 약 3분 15초 걸립니다.
+- 골짜기는 성문 사이 20m(나무 발판 6개)이고 게임 속도는 처음의 절반입니다(빈손일 때 초속 2.8m, 점프는 1.2초 동안 떠 있음). 휴대폰 가로 화면에서는 골짜기가 다 보이고, 데스크톱에서는 대부분이 보이며 화면이 내 산적을 따라갑니다. 점수판 아래 띠 지도에 두 성·두 산적·수레와 지금 보이는 곳이 나옵니다. 둘이서 할 때는 한 화면(멀어질수록 최대 1.45배까지 넓게)에 함께 보이고, 좁은 데스크톱 창에서 아주 멀어지면 화면이 좌우로 나뉩니다. 하늘에서 보물 상자는 떨어지지 않고, 전리품은 0.85~1.75초마다 떨어집니다. 컴퓨터(보통)끼리 겨루면 금화 60 판이 약 1분 15초, 100 판이 약 2분 20초, 150 판이 약 3분 10초 걸립니다.
 - 무게: 자루가 무거울수록 느려집니다. 빈손이면 초속 2.8m, 금화 20이 꽉 차면 그 60%로 달리고 몸도 앞으로 숙여집니다. 컴퓨터도 무거울 때의 걸음을 셈해 집으로 향합니다.
 - 기절과 무적: 몽둥이에 맞거나 폭탄에 휘말려 쓰러져 있는 동안만 다시 맞지 않고 폭탄에도 휘말리지 않습니다. 일어나면 곧바로 다시 맞을 수 있습니다(일어난 뒤 무적 시간 없음). 대신 상대를 친 쪽은 몽둥이를 다시 들기까지 2초 남짓(상대가 쓰러져 있는 1.6초보다 0.45초 더) 걸려, 일어나자마자 또 맞는 일이 되풀이되지는 않습니다.

diff --git a/ROADMAP.md b/ROADMAP.md
@@ -463,6 +463,7 @@
 - [x] 금화 쟁탈전: 터치 화면 레버(옆으로 달리기 · 위로 점프, 둘이서는 각자 레버), 골짜기 35m로 줄임, 자루가 무거울수록 느려짐(가득 차면 60%), 일어난 뒤 무적 시간 없앰(친 쪽의 몽둥이 대기로 연속 기절 방지)
 - [x] 주차 요원: 주차장마다 배경 — 밤의 햄버거 가게 주차장(네온·가로등·전조등), 지하 주차장(에폭시 바닥·기둥·형광등·비상구)
 - [x] 금화 쟁탈전: 골짜기 25m(발판 8개), 하늘에서 보물 상자 없앰, 전리품이 덜 자주 떨어짐
+- [x] 금화 쟁탈전: 골짜기 20m(발판 6개)
 - [x] 슬롯머신: 클릭·터치로는 레버만 기계를 돌림(다른 곳을 눌러도 레버가 움직이던 문제), 스핀 버튼은 멈춤 버튼으로
 - [x] 탁구: 컴퓨터 라켓 속도·반응 빠르게(쉬움 2.0, 보통 2.6, 어려움 3.4 m/s), 옆으로 치거나 휜 공도 받아 냄
 - [x] 낚시: 시간 제한과 난이도 없앰(점수가 계속 쌓임, 호수의 하루는 6분마다 돎), 바다 낚시는 흔들리는 낚싯배 위에서
